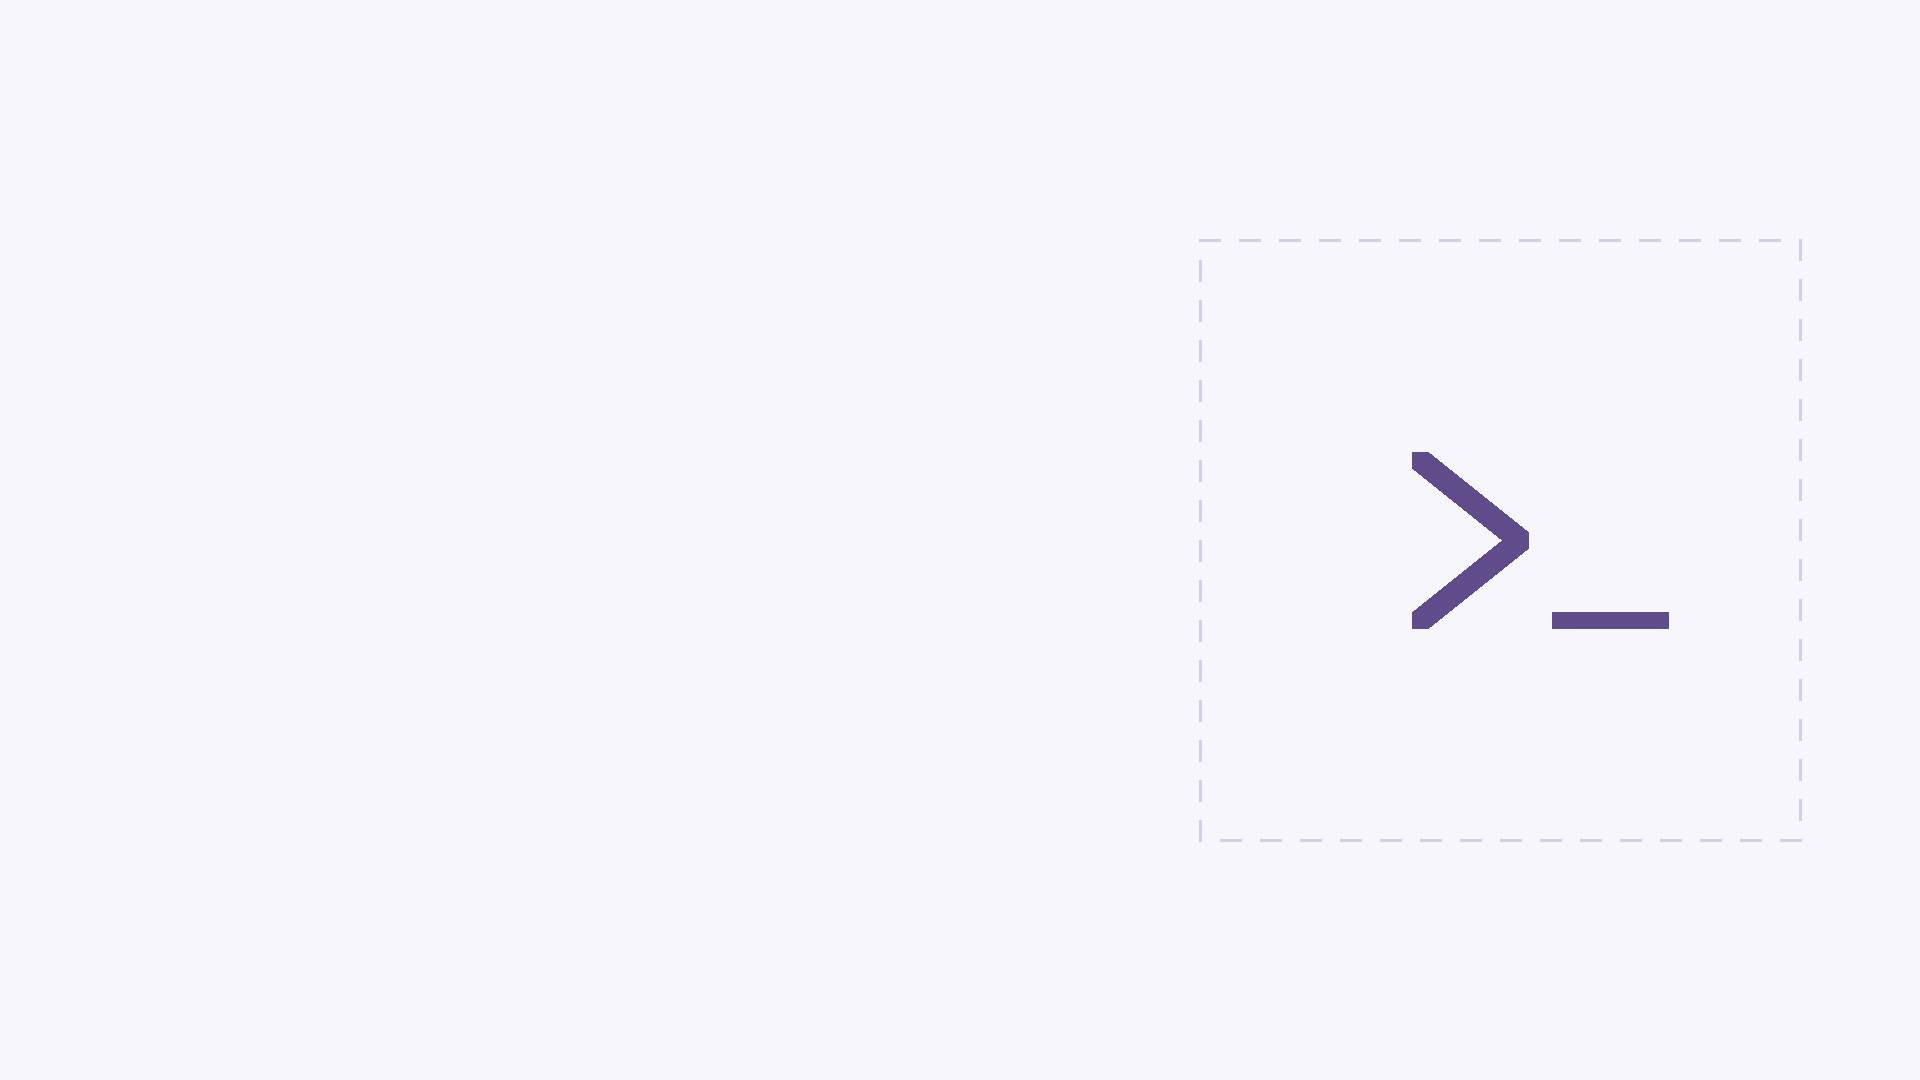
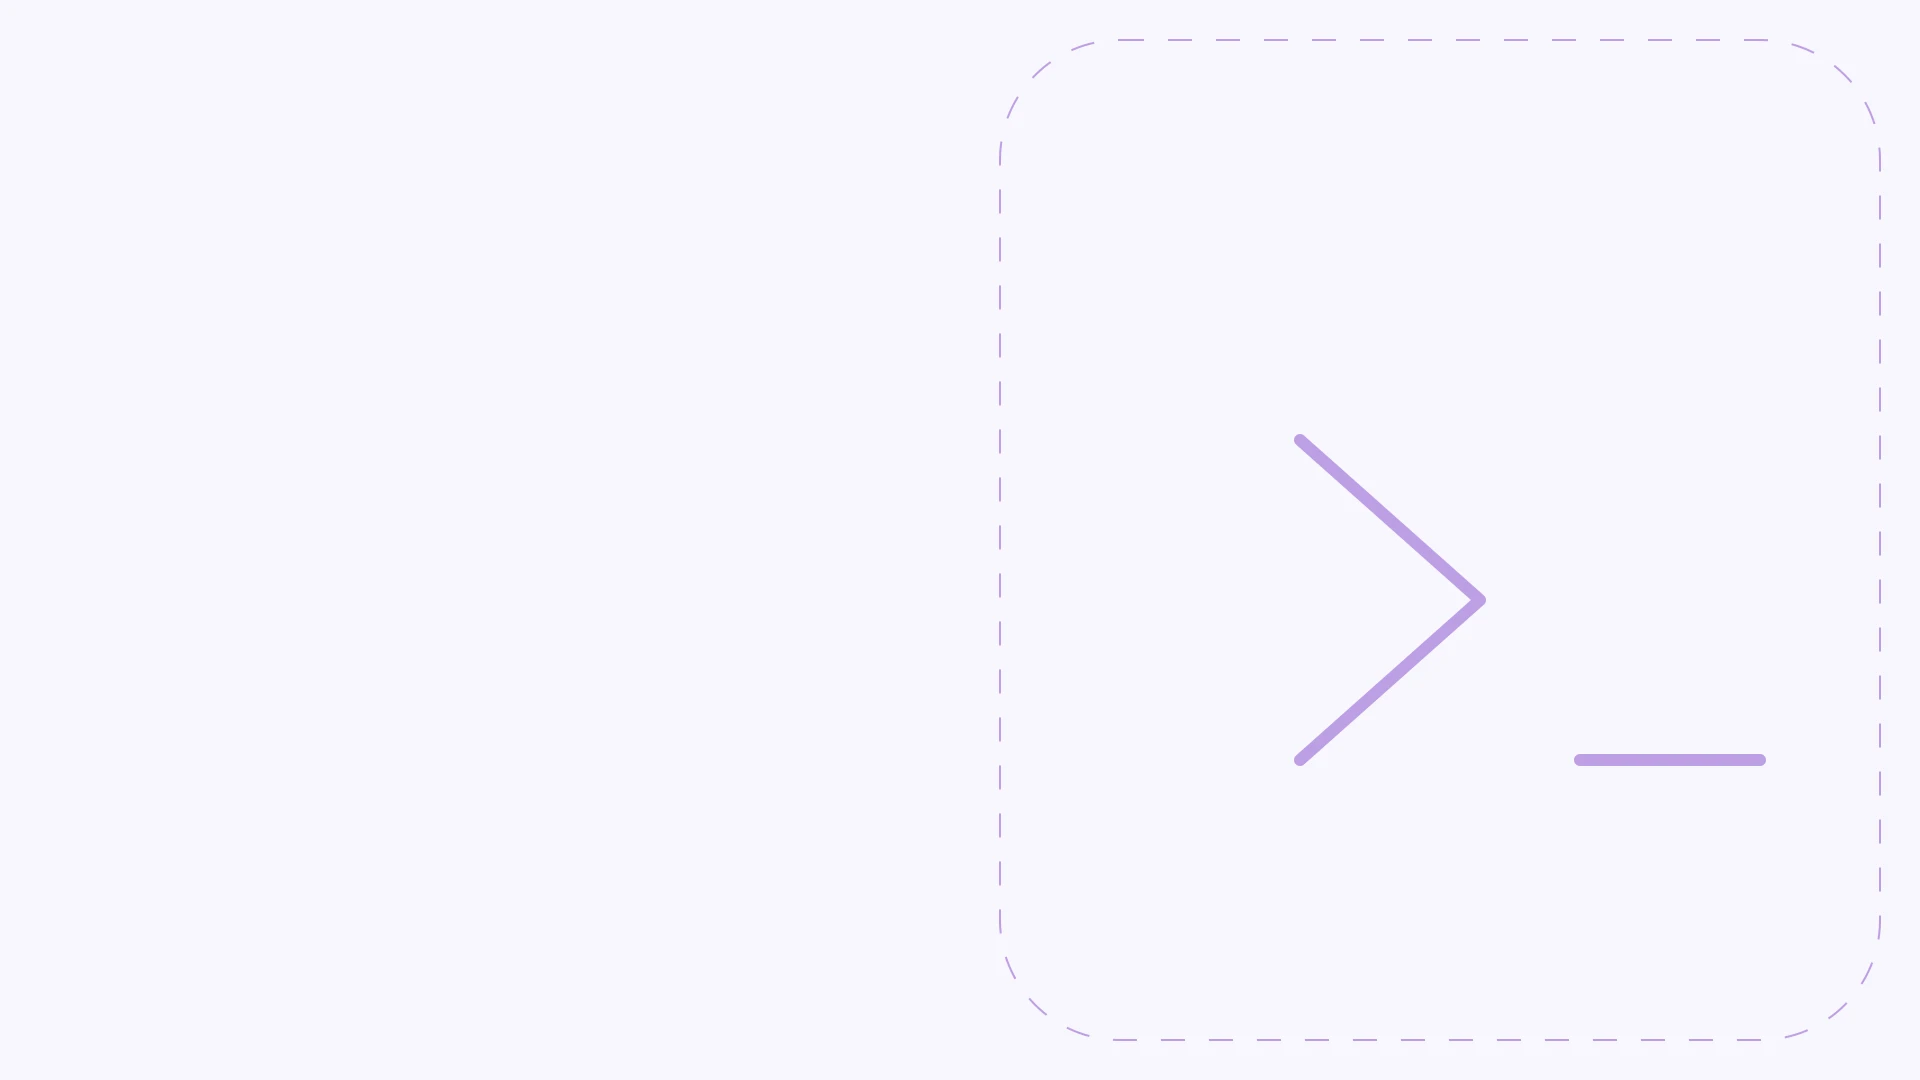
refactor: replace synthetic PNG generation with asset conversion and copying for high-resolution NTP backgrounds

diff --git a/CHANGELOG.md b/CHANGELOG.md
@@ -1,5 +1,13 @@
 # Changelog
 
+## [1.3.1] - 2026-05-06
+
+### Fixed
+- `theme_ntp_background.png` (dark) was only 256×256 px; Chrome renders it as a tiny centred square on the New Tab page when `ntp_background_repeat` is `no-repeat`.
+- Replaced the procedural dark PNG generator with a `sips`-based conversion: the authoritative **3840×2160** `theme_ntp_background.webp` is now re-encoded as PNG so Chrome can load it correctly.
+- Replaced the procedural light PNG generator: `images/light.png` (**1920×1080**) is now copied directly to `theme_ntp_background_light.png` as the authoritative light NTP background.
+- Both `scripts/generate-ntp-image.mjs` and `scripts/generate-ntp-image-light.mjs` rewritten to use real source assets instead of synthetic generation.
+
 ## [1.3.0] - 2026-05-06
 
 ### Fixed
